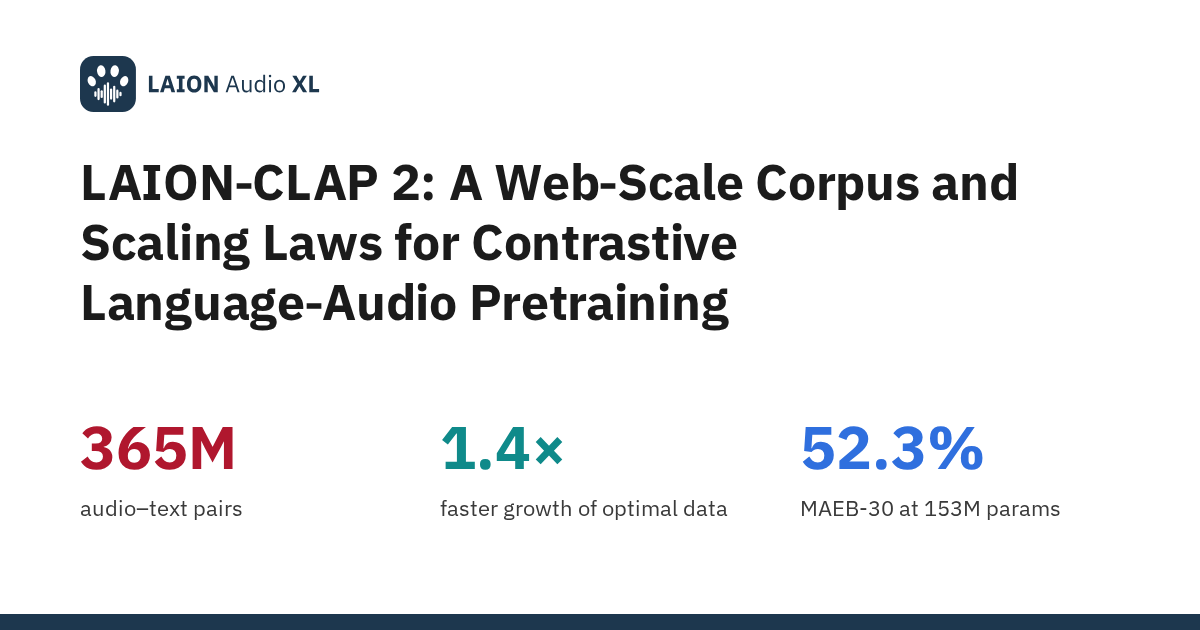
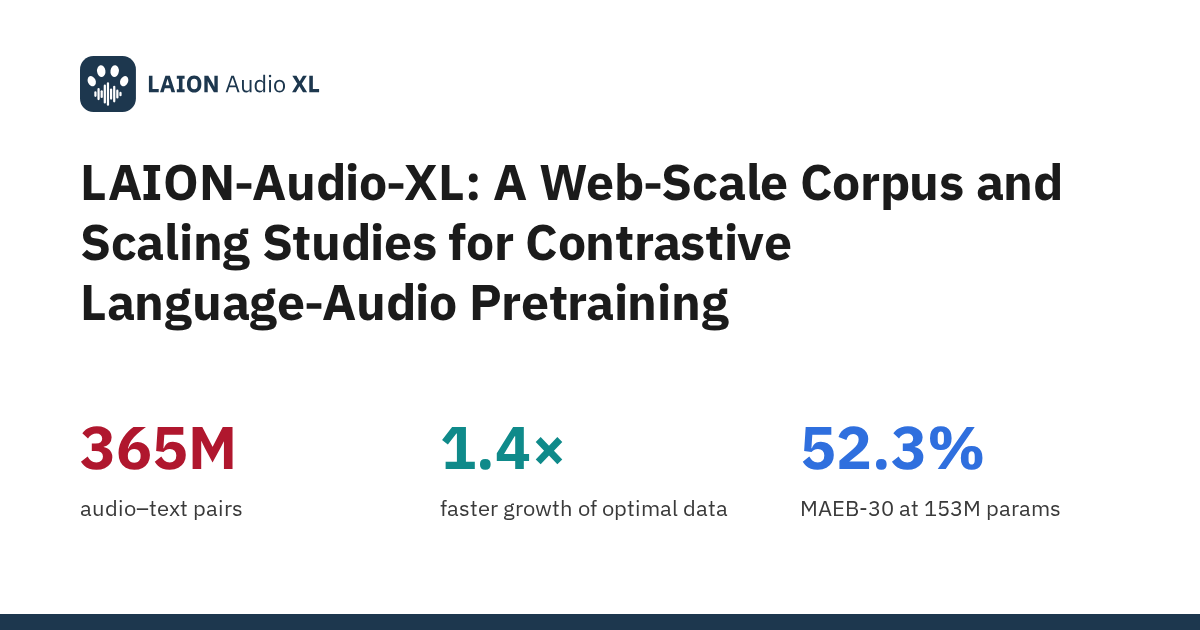
Project page: wording aligned with the final paper, 2026 preprint citation, new link-preview image

Changed region(s): [[0.185, 0.2413, 0.8942, 0.4222]]

diff --git a/docs/index.html b/docs/index.html
@@ -39,7 +39,7 @@
   <meta property="og:image:height" content="630">
   <meta name="twitter:card" content="summary_large_image">
   <meta name="twitter:image" content="https://projects.laion.ai/clap2/assets/og-image.png">
-  <meta property="og:image:alt" content="LAION-Audio-XL: 365M audio-text clips, and CLAP2 at 52.3% on MAEB-30.">
+  <meta property="og:image:alt" content="LAION-Audio-XL: 365M audio-text pairs, optimal data growing 1.4× faster than model size, and CLAP2-M (153M parameters) at 52.3% on MAEB-30.">
   <link rel="preconnect" href="https://fonts.googleapis.com">
   <link rel="preconnect" href="https://fonts.gstatic.com" crossorigin>
   <link href="https://fonts.googleapis.com/css2?family=IBM+Plex+Sans:ital,wght@0,400;0,500;0,600;1,400&family=IBM+Plex+Mono:wght@400;500&display=swap" rel="stylesheet">
@@ -187,7 +187,7 @@
    "alternateName": [
     "LAION-Audio-XL-500M"
    ],
-   "description": "A web-scale audio-text corpus of 365M audio clips up to 30 s (1.39M hours) with 707M short and long captions, curated from 1.48B clips collected from YouTube, Common Crawl, web collections and 316 academic datasets. The larger LAION-Audio-XL-500M keeps clips up to 120 s (500M clips, 970M captions, 3.35M hours). Released on Hugging Face: laion/laion-audio-xl holds the audio of sources whose licence allows redistribution, and the gated laion/laion-audio-xl-links holds links, captions and metadata for the rest.",
+   "description": "A web-scale audio-text corpus of 365M audio clips up to 30 s (1.39M hours) with 707M short and long captions, curated from 1.48B clips collected from YouTube, Common Crawl, web collections, internet datasets and 316 academic datasets. The larger LAION-Audio-XL-500M keeps clips up to 120 s (500M clips, 970M captions, 3.35M hours). Released on Hugging Face: laion/laion-audio-xl holds the audio of sources whose licence allows redistribution, and the gated laion/laion-audio-xl-links holds links, captions and metadata for the rest.",
    "keywords": [
     "audio",
     "audio captions",
@@ -340,16 +340,16 @@
       <span>Ross Wightman<sup>2</sup></span>
       <span>Marianna Nezhurina<sup>1,2</sup></span>
       <span>Christoph Schuhmann<sup>2</sup></span>
-      <span>Jenia Jitsev<sup>1,2,◆</sup></span>
-      <span>A. Sophia Koepke<sup>3,4,◆</sup></span>
+      <span>Jenia Jitsev<sup>1,2,⋄</sup></span>
+      <span>A. Sophia Koepke<sup>3,4,⋄</sup></span>
     </p>
     <p class="affils">
       <span><sup>1</sup>Jülich Supercomputing Center (JSC), Forschungszentrum Jülich (FZJ)</span>
       <span><sup>2</sup>LAION</span>
       <span><sup>3</sup>Technical University of Munich, MCML</span>
       <span><sup>4</sup>University of Tübingen, Tübingen AI Center</span>
-      <span class="equal"><sup>*</sup>Equal contribution, order decided by coin flip</span>
-      <span class="equal"><sup>◆</sup>Senior advisor</span>
+      <span class="equal"><sup>*</sup>Equal contribution, decided by coin flip</span>
+      <span class="equal"><sup>⋄</sup>Equal supervision</span>
     </p>
     <nav class="links">
       <a class="btn" href="#" aria-disabled="true" title="Coming soon"><svg viewBox="0 0 24 24"><path d="M6 2h9l5 5v15H6z M14 2v6h6"/></svg>Paper</a>
@@ -399,7 +399,7 @@ t = m.encode_text(oc.get_tokenizer(hub)([<span class="c-s">&quot;a dog&quot;</sp
   <header class="row sec-head">
     <div class="sec-title">
       <h2><span class="sec-n" aria-hidden="true">1</span>The LAION-Audio-XL Dataset</h2>
-      <p>We collect 1.48B audio samples from YouTube, Common Crawl, web collections and 316 academic datasets, clean and deduplicate them, select for coverage with a 3,718-class taxonomy, and generate short and long captions for clips that lack them.</p>
+      <p>We collect 1.48B audio samples from YouTube, Common Crawl, web collections, internet datasets and 316 academic datasets, clean and deduplicate them, select for coverage with a 3,718-class taxonomy, and generate short and long captions for clips that lack them.</p>
     </div>
   </header>
 
@@ -429,7 +429,7 @@ t = m.encode_text(oc.get_tokenizer(hub)([<span class="c-s">&quot;a dog&quot;</sp
   <div class="row" id="compare">
     <aside class="side">
       <h3>Compared with Other Corpora <button class="info" type="button" aria-expanded="false" aria-controls="i-cmp" aria-label="More about this comparison"><svg viewBox="0 0 20 20" aria-hidden="true"><circle cx="10" cy="10" r="8.25"/><path d="M10 9v5"/><circle class="dot" cx="10" cy="6.2" r=".9"/></svg></button></h3>
-      <div class="info-more" id="i-cmp" hidden><p>Bars share one linear scale per measure. Captions count the text entries each source reports: GLAP's are mostly ASR transcripts, and SALMONN-2 and Audio Flamingo 3 report training samples without clip counts. Dasheng's mix is audio only.</p></div>
+      <div class="info-more" id="i-cmp" hidden><p>Bars share one linear scale per measure. Captions count the text entries each source reports (captions, ASR transcripts, QA pairs); SALMONN-2 and Audio Flamingo 3 do not report clip counts. Dasheng's mix is audio only.</p></div>
       <div class="toggle" id="cmp-toggle" role="group" aria-label="Metric">
         <button class="on" data-k="hours">Duration</button>
         <button data-k="captions">Captions</button>
@@ -670,11 +670,12 @@ music = ds[<span class="c-s">&quot;train&quot;</span>].filter(is_music)
     </div>
     <div class="bib-box">
     <button class="copy" id="bib-copy" type="button"><svg viewBox="0 0 24 24"><rect x="9" y="9" width="11" height="11" rx="2"/><path d="M5 15V5a1 1 0 0 1 1-1h10"/></svg><span>Copy</span></button>
-    <pre tabindex="0" id="bib"><code>@inproceedings{wijngaard2027laionaudioxl,
+    <pre tabindex="0" id="bib"><code>@misc{wijngaard2026laionaudioxl,
   title     = {{LAION-Audio-XL}: A Web-Scale Corpus and Scaling Studies for Contrastive Language-Audio Pretraining},
   author    = {Wijngaard, Gijs and F{\"o}rster, Felix and Wightman, Ross and Nezhurina, Marianna
                and Schuhmann, Christoph and Jitsev, Jenia and Koepke, A. Sophia},
-  year      = {2027},
+  year      = {2026},
+  note      = {Preprint},
 }</code></pre>
     </div>
   </div>

diff --git a/docs/js/caption-flow.js b/docs/js/caption-flow.js
@@ -10,7 +10,7 @@
   const S = window.DATA.samples, X = FK.EXPERTS, GROUPS = FK.GROUPS, esc = FK.esc;
   const AUDIO_ROW = { key: 'audio', group: null, name: 'Audio', by: 'the clip itself', icon: 'wave', val: m => `${FK.time(m.duration)} clip, ${m.sr_orig / 1000} kHz` };
   const ROWS = [AUDIO_ROW, ...X];
-  const CAPTION_INFO = 'Seven captioner configurations were compared on speed, vocabulary diversity and quality (human and LLM rankings). Qwen3-Omni-30B-A3B-Instruct is fast (75.9 clips/s per node); MOSS-Audio-8B-Thinking writes the most diverse and best-rated captions. Each captioned a random half of the 471,237,555 clips without text, writing a short and a long caption (12 and 29 words on average). The prompt carries the clip’s raw metadata JSON, which ranked best against audio-only and natural-language prompts.';
+  const CAPTION_INFO = 'Seven captioner configurations were compared on speed, vocabulary diversity and quality (human and LLM rankings). Qwen3-Omni-30B-A3B-Instruct is fast (75.9 clips/s per node); MOSS-Audio-8B-Thinking writes the most diverse and best-rated captions. Each captioned a disjoint half of the 471,237,555 clips without text, writing a short and a long caption (12 and 29 words on average). The prompt carries the clip’s raw metadata JSON, which ranked best against audio-only and natural-language prompts.';
   const EXPERT_INFO = 'A 3,718-class taxonomy classifier (an MLP on Dasheng-0.6B features) and signal statistics (loudness, silence, clipping, bandwidth) run on every clip. The predicted top-level category then routes it to specialists: speech to language (MMS-LID-4017), speaker age and gender (wav2vec2), emotion (emotion2vec+ large) and pitch (CREPE); music to genre and style (MAEST, 400 Discogs labels) and tempo and key (librosa); animal sounds to species (Perch 2.0).';
   // phones get the top-to-bottom version (caption-flow-m.js)
   FK.CF = { AUDIO_ROW, CAPTION_INFO, EXPERT_INFO };

diff --git a/docs/js/qa-seeds.js b/docs/js/qa-seeds.js
@@ -35,9 +35,9 @@
       q: ['How do I cite this?', 'citation', 'Is there a BibTeX entry?', 'how should I cite the paper', 'reference for citing this work', 'bibtex', 'how to cite LAION-Audio-XL', 'citation for the paper', 'cite the paper', 'Where can I find the BibTeX for this paper?', 'what should I cite', 'citing this work'],
       a: "Copy the BibTeX at the bottom of the page. It cites “LAION-Audio-XL: A Web-Scale Corpus and Scaling Studies for Contrastive Language-Audio Pretraining” by Wijngaard, Förster et al.", src: 'Page · BibTeX' },
     { id: 'venue',
-      q: ['Where is the paper published?', 'Is it peer reviewed?', 'Has the paper been accepted?', 'which venue', 'Is the paper peer-reviewed?', 'where was this published', 'publication venue'],
+      q: ['Where is the paper published?', 'Is it peer reviewed?', 'Has the paper been accepted?', 'which venue', 'Is the paper peer-reviewed?', 'where was this published', 'publication venue', 'Is this a preprint?', 'is the paper a preprint'],
       not: ['dataset', 'data', 'code', 'weights', 'checkpoints', 'models', 'model', 'captions', 'audio', 'llm', 'when', 'date', 'dates', ...CAPTION],
-      a: "This project page does not list a publication venue. Use the BibTeX entry at the bottom of the page for the current citation details.", src: 'Page · BibTeX' },
+      a: "It's a <b>preprint</b>, released in 2026, so it has no conference or journal venue yet. The BibTeX entry at the bottom of the page cites it as a 2026 preprint.", src: 'Page · BibTeX' },
 
     // ---------- release, licensing, ethics ----------
     { id: 'release',

diff --git a/docs/js/pipeline-flow.js b/docs/js/pipeline-flow.js
@@ -43,7 +43,7 @@
   ];
   // the step between stage i and i+1: title, one-line detail, and the longer note behind the info button
   const STEPS = [
-    ['Clean', 'silence, duplicates, eval', 'Silent or unreadable audio is dropped, exact duplicates are found by hash and audio fingerprint, near-duplicates with SemDeDup, and clips that overlap evaluation sets are removed.'],
+    ['Clean', 'silence, duplicates, eval', 'Silent or unreadable audio is dropped, exact duplicates are found by hash, near-duplicates by audio fingerprint and SemDeDup, and clips that overlap evaluation sets are removed.'],
     ['Annotate & select', '3,718-class taxonomy', 'Each clip gets taxonomy, language, speaker, emotion, music and species annotations. Selection then keeps 500M clips that cover the 3,718 classes, thinning common content and protecting rare categories.'],
     ['Caption', 'Qwen3-Omni, MOSS-Audio', 'Prompted with the annotations, Qwen3-Omni and MOSS-Audio write a short (12 ± 3 words) and a long (29 ± 11 words) caption for the 471M clips without text.'],
     ['Keep ≤ 30 s', '', 'LAION-Audio-XL-500M keeps every selected clip up to 120 s. Training uses its ≤ 30 s subset, LAION-Audio-XL: +4.1 MAEB-30 points at 3.5× less compute.'],

diff --git a/docs/js/data.js b/docs/js/data.js
@@ -41,7 +41,7 @@ window.DATA = {
     { name: 'Bagpiper', hours: 933e3, captions: 392e6, audio: 392e6, access: 'public' },
     { name: 'GLAP mix', hours: 435e3, captions: 445e6, audio: 445e6, access: 'public' },
     { name: 'LAION-Audio-XL-500M', hours: 3.35e6, captions: 970e6, audio: 500e6, ours: true, access: 'released' },
-    { name: 'LAION-Audio-XL', hours: 1.38e6, captions: 707e6, audio: 365e6, ours: true, access: 'released' },
+    { name: 'LAION-Audio-XL', hours: 1.39e6, captions: 707e6, audio: 365e6, ours: true, access: 'released' },
   ],
 
   // Sound taxonomy (thesis, appendix C.1 and its radial figure): 4,416 nodes, 4,085 leaves, 11 top-level groups,

diff --git a/README.md b/README.md
@@ -94,10 +94,11 @@ Code: MIT. Models: CC BY-NC 4.0. Audio and captions: per source, see the dataset
 ## Citation
 
 ```bibtex
-@inproceedings{wijngaard2027laionaudioxl,
+@misc{wijngaard2026laionaudioxl,
   title     = {{LAION-Audio-XL}: A Web-Scale Corpus and Scaling Studies for Contrastive Language-Audio Pretraining},
   author    = {Wijngaard, Gijs and F{\"o}rster, Felix and Wightman, Ross and Nezhurina, Marianna
                and Schuhmann, Christoph and Jitsev, Jenia and Koepke, A. Sophia},
-  year      = {2027},
+  year      = {2026},
+  note      = {Preprint},
 }
 ```
